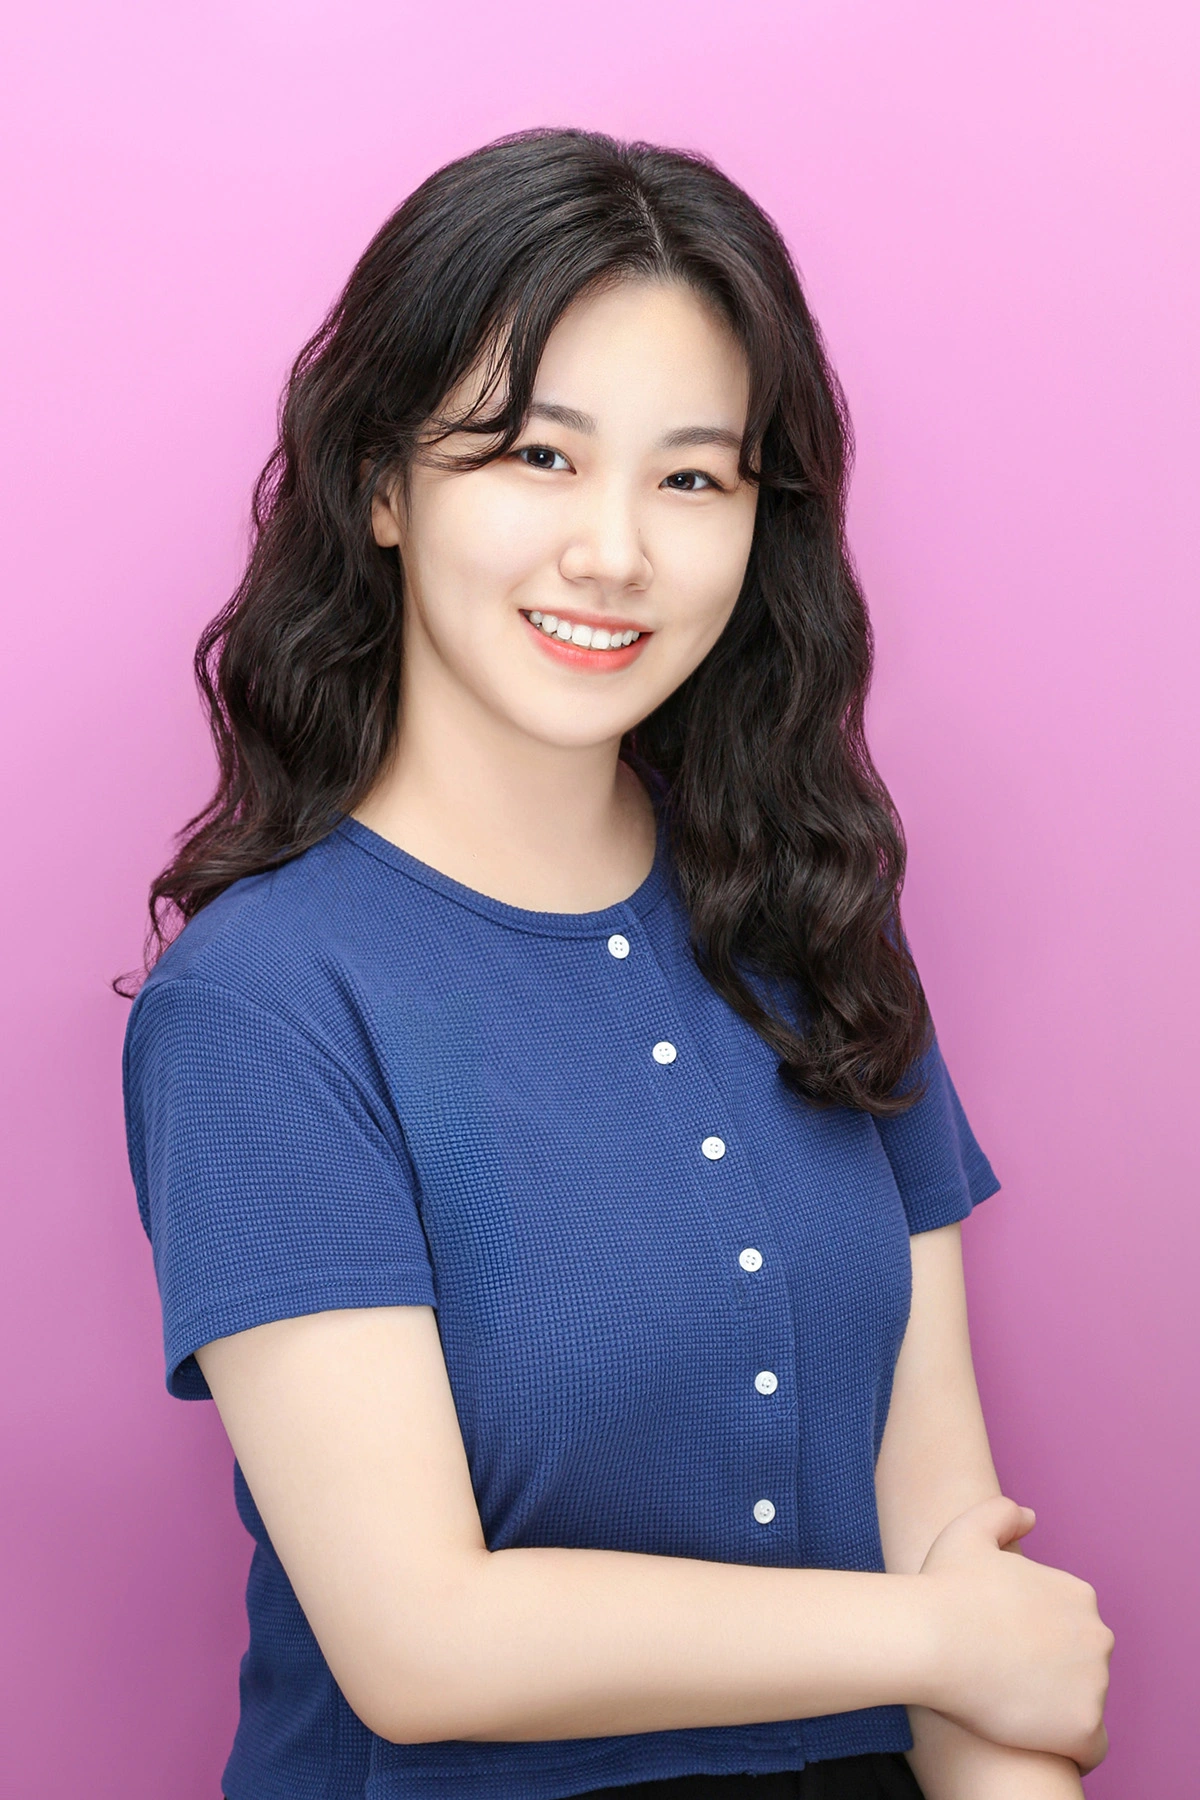
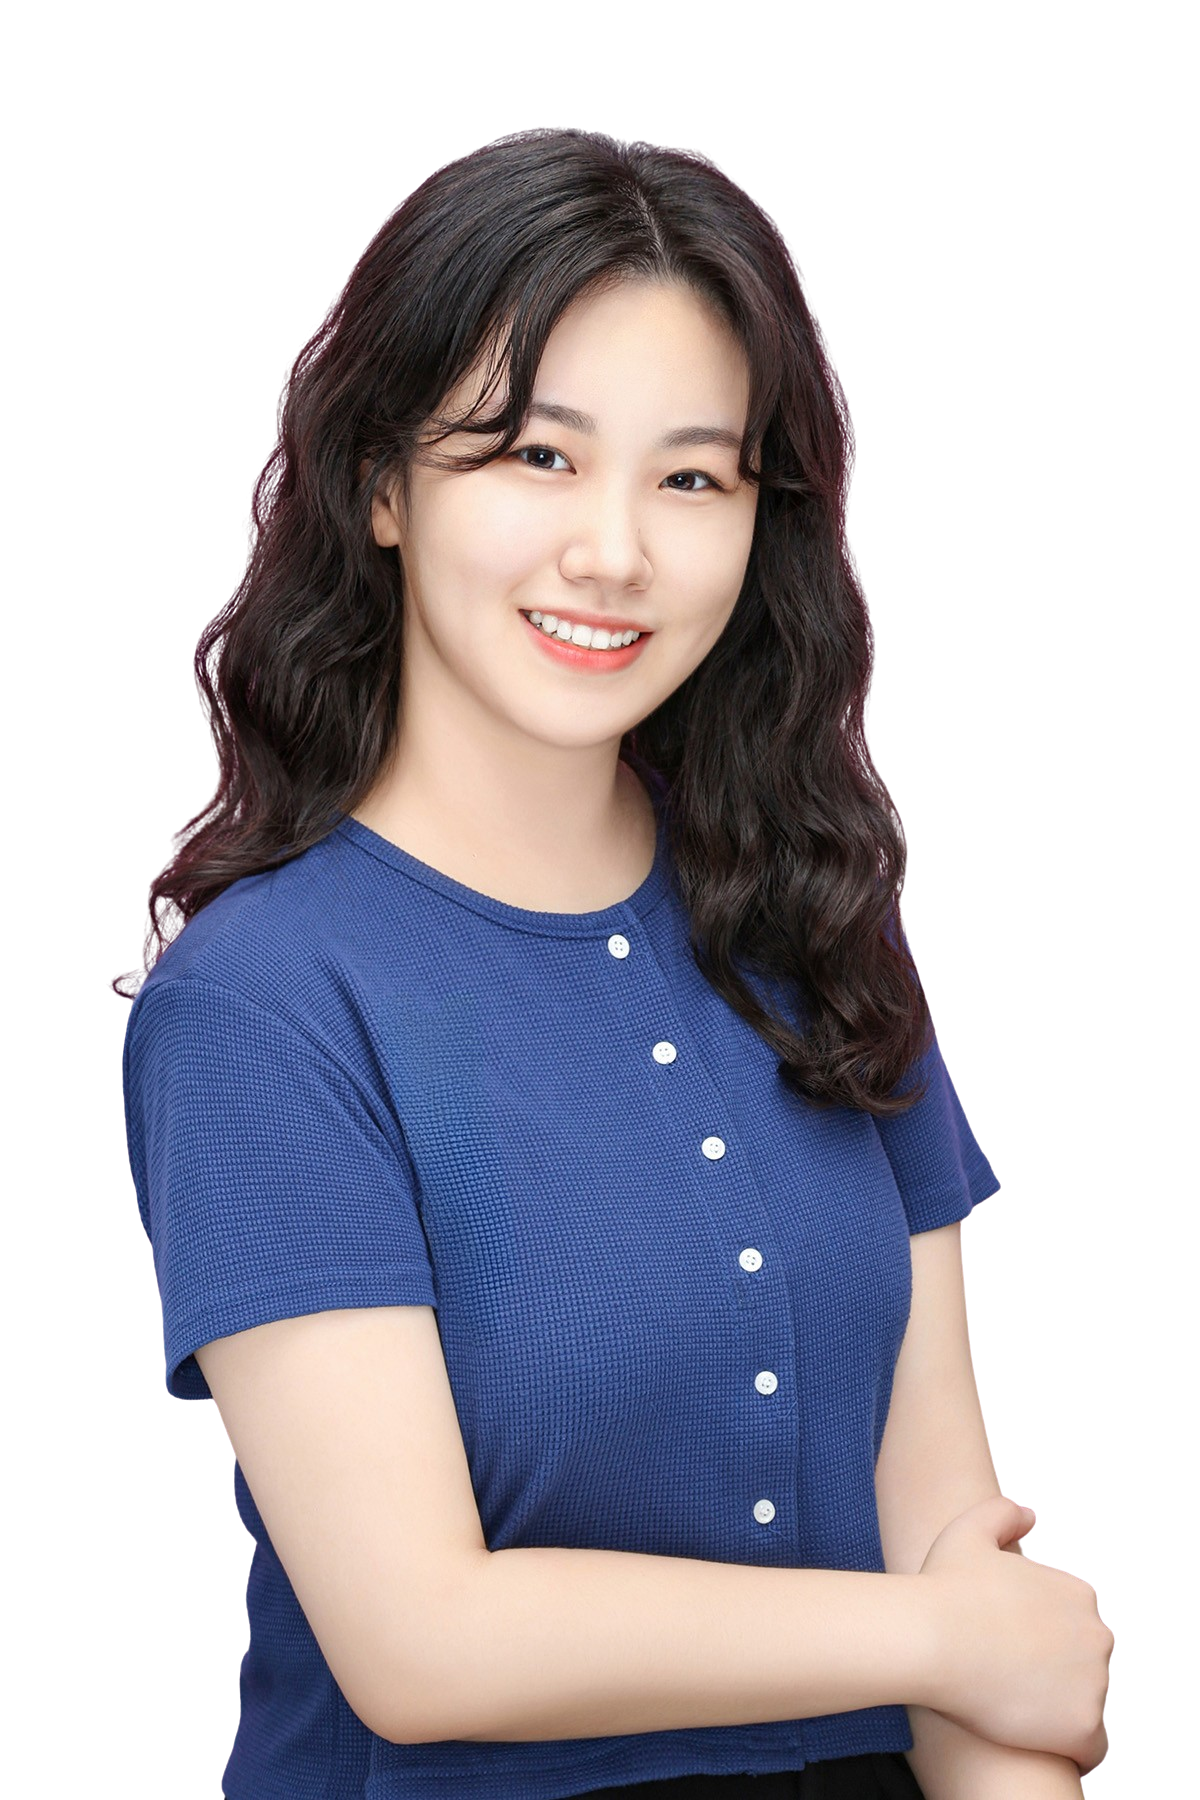
Update: 기본 스타일링 추가

diff --git a/src/components/Introduce.jsx b/src/components/Introduce.jsx
@@ -1,6 +1,27 @@
+import s from "./Introduce.module.scss";
+
 function Introduce() {
   return (
-    <p>✅ 관심이 생기면 무엇이든 빠르게 도전하고 실행하는 것을 즐깁니다. </p>
+    <div className={s.container}>
+      <h1 className={s.title}>
+        끊임없이 성장하는 개발자 <br />
+        <strong>권보령</strong>
+        입니다.
+      </h1>
+      <div className={s.subTitle}>
+        <p>
+          ✅ 관심이 생기면 무엇이든 빠르게 도전하고 실행하는 것을 즐깁니다.
+        </p>
+        <p>
+          ✅ 복잡한 문제를 분석하고 해결책을 찾는 데에 열정을 가지고 있습니다.
+        </p>
+        <p>✅ 항상 사용자 편의와 접근성을 최우선으로 생각합니다.</p>
+        <p>
+          ✅ 협업을 통해 다양한 아이디어와 시각을 나누는 것을 소중히 여깁니다.
+        </p>
+        <p>✅ 어제보다 더 나은 사람이 되기 위해 끊임없이 노력합니다. </p>
+      </div>
+    </div>
   );
 }
 

diff --git a/src/components/Header.jsx b/src/components/Header.jsx
@@ -1,0 +1,32 @@
+import s from "./Header.module.scss";
+
+function Header() {
+  return (
+    <div className={s.container}>
+      <div className={s.leftbox}>
+        <a
+          href="https://github.com/kwonboryong"
+          target="_blank"
+          rel="noopener noreferrer"
+        >
+          Github
+        </a>
+        <a
+          href="https://tensdiary.tistory.com/"
+          target="_blank"
+          rel="noopener noreferrer"
+        >
+          Tistory
+        </a>
+      </div>
+
+      <div className={s.rightbox}>
+        <a href="">Introduce</a>
+        <a href="">Skills</a>
+        <a href="">Projects</a>
+      </div>
+    </div>
+  );
+}
+
+export default Header;

diff --git a/index.html b/index.html
@@ -2,9 +2,10 @@
 <html lang="ko-KR">
 <head>
   <meta charset="UTF-8" />
-  <title>Vite 커스텀 템플릿</title>
+  <title>boryong's Protfolio</title>
   <meta name="viewport" content="width=device-width, initial-scale=1" />
-  <link rel="icon" type="image/svg+xml" href="/react.svg" />
+  <link rel="icon" type="image/svg+xml" href="./public/assets/icon.png" /> 
+  <link href="https://fonts.googleapis.com/css2?family=Noto+Sans+KR:wght@400;700&display=swap" rel="stylesheet" />
   <link rel="stylesheet" href="src/styles/main.css" />
   <script type="module" src="src/main.jsx"></script>
 </head>

diff --git a/src/components/Introduce.module.scss b/src/components/Introduce.module.scss
@@ -1,0 +1,26 @@
+.container {
+  display: flex;
+  flex-direction: row;
+  justify-content: center;
+  align-items: center;
+
+  .title {
+    color: black;
+    font-size: 28px;
+    font-family: "Noto Sans KR", sans-serif;
+    font-weight: 400;
+    text-align: center;
+
+    margin-right: 50px;
+  }
+
+  .subTitle {
+    color: black;
+    font-size: 14px;
+    font-family: "Noto Sans KR", sans-serif;
+
+    p {
+      margin: 0;
+    }
+  }
+}

diff --git a/src/components/Profile.jsx b/src/components/Profile.jsx
@@ -1,15 +1,14 @@
-import p from './../../public/assets/profile.webp';
-import s from './profile.module.scss'; 
+import s from "./Profile.module.scss";
 
 function Profile() {
   return (
-    <>
+    <div className={s.container}>
       <img
-      className={s.profile}
-        src={p}
+        className={s.profile}
+        src="/assets/profile.webp"
         alt="개발자 권보령 프로필 사진"
       />
-    </>
+    </div>
   );
 }
 

diff --git a/src/pages/HomePage.jsx b/src/pages/HomePage.jsx
@@ -1,16 +1,11 @@
-import Introduce from '@/components/Introduce';
-import Profile from '@/components/Profile';
+import Main from "@/pages/Main";
 
-function HomePage(){
-
+function HomePage() {
   return (
     <div>
-      {/* <h1>끊임없이 성장하는 개발자 <br/> 권보령입니다!</h1> */}
-      <h1>안녕하세요</h1>
-      <Profile/>
-      <Introduce />
+      <Main />
     </div>
   );
-};
+}
 
 export default HomePage;

diff --git a/src/pages/Main.jsx b/src/pages/Main.jsx
@@ -1,0 +1,20 @@
+import Header from "@/components/Header";
+import Profile from "@/components/Profile";
+import Introduce from "@/components/Introduce";
+import s from "./Main.module.scss";
+
+function Main() {
+  return (
+    <>
+      <Header />
+      <div className={s.container}>
+        <div className={s.box}>
+          <Profile />
+          <Introduce />
+        </div>
+      </div>
+    </>
+  );
+}
+
+export default Main;

diff --git a/src/styles/main.css b/src/styles/main.css
@@ -1,10 +1,9 @@
 body {
-  font-family: -apple-system, BlinkMacSystemFont, 'Segoe UI', Roboto, 'Helvetica Neue', Arial, sans-serif;
-  box-sizing: border-box;
-  background-color: #f4f4f4;
-  color: #333;
+  user-select: none;
+  margin: 0;
 }
 
+/* 
 h1 {
   font-size: 3rem;
   margin-bottom: 20px;
@@ -13,4 +12,4 @@ h1 {
 p {
   font-size: 1.4rem;
   line-height: 1.6;
-}
+} */

diff --git a/src/pages/Main.module.scss b/src/pages/Main.module.scss
@@ -1,0 +1,18 @@
+.container {
+  user-select: none;
+  // height: 100vh;
+
+  display: flex;
+  justify-content: center;
+  align-items: center;
+
+  .box {
+    margin-top: 3%;
+    // margin-left: 8%;
+    background: linear-gradient(135deg, #FFBDEC 0%, #FFB3D1 50%, #FFFFFF 100%);
+
+    width: 1200px;
+    height: 500px;
+    border: 1px solid black;
+  }
+}

diff --git a/src/components/Header.module.scss b/src/components/Header.module.scss
@@ -1,0 +1,25 @@
+.container {
+  display: flex;
+  justify-content: space-between;
+  align-items: center;
+  
+  height: 80px;
+  padding: 0 30px;
+
+  
+  a {
+    text-decoration: none;
+    cursor: pointer;
+    color: black;
+  }
+
+  .leftbox {
+    display: flex;
+    gap: 30px;
+  }
+
+  .rightbox {
+    display: flex;
+    gap: 30px;
+  }
+}

diff --git a/src/components/profile.module.scss b/src/components/profile.module.scss
@@ -1,9 +1,17 @@
+.container {
+  display: flex;
+  flex-direction: column;
+  justify-content: center;
+  align-items: center;
 
 
-.profile {
-  width: 200px;
-  height: 300px;
+  margin-top: 55px;
+  margin-bottom: 10px;
+
+  .profile {
+    width: 200px;
+    height: 300px;
+
+    // border-radius: 10px;
+  }
 }
-
-
-
